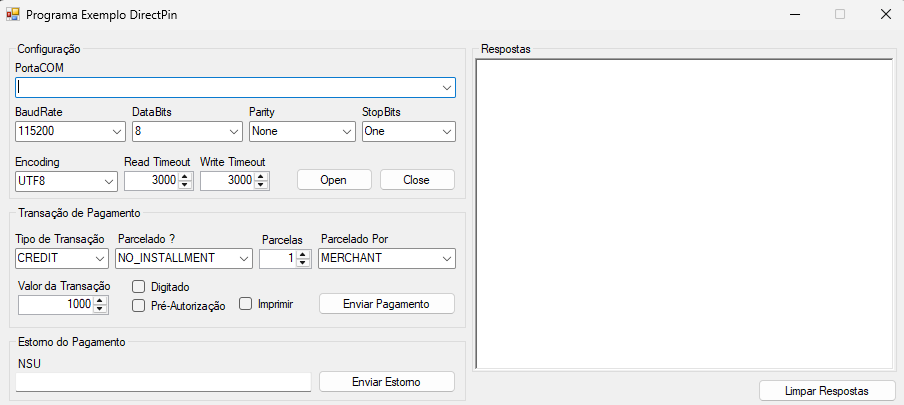
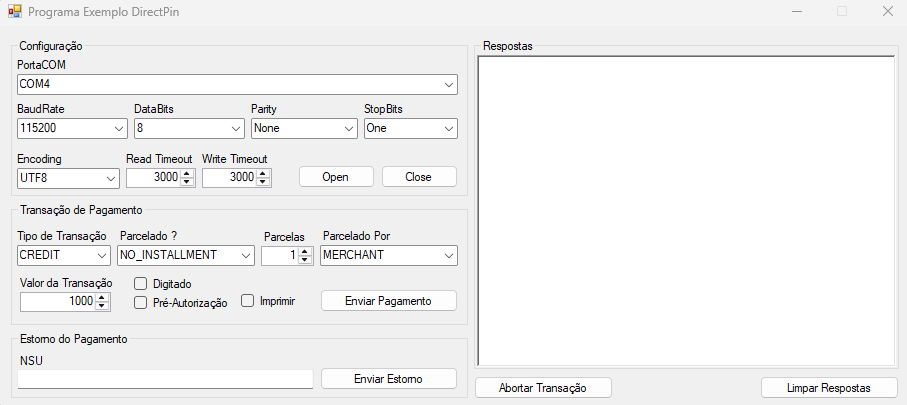
Adiciona suporte à operação de abortar transação no DirectPIN
Implementada a classe DpPayloadRequestAbort.cs para envio de requisição de abortar operação.
Atualizado o README.md com documentação da nova funcionalidade e exemplo de payload.
Atualizada a imagem programa-exemplo.png com nova versão otimizada.
Ajustes no FrmMain.cs e Designer.cs para suportar a nova operação.
Atualizado o arquivo .csproj para incluir a nova classe.

diff --git a/DemoDirectPin/FrmMain.Designer.cs b/DemoDirectPin/FrmMain.Designer.cs
@@ -69,6 +69,7 @@
             this.groupBox4 = new System.Windows.Forms.GroupBox();
             this.rtbRespostas = new System.Windows.Forms.RichTextBox();
             this.btnLimparRespostas = new System.Windows.Forms.Button();
+            this.btnAbort = new System.Windows.Forms.Button();
             this.groupBox1.SuspendLayout();
             ((System.ComponentModel.ISupportInitialize)(this.nudWriteTimeOut)).BeginInit();
             ((System.ComponentModel.ISupportInitialize)(this.nudReadTimeOut)).BeginInit();
@@ -537,11 +538,22 @@
             this.btnLimparRespostas.UseVisualStyleBackColor = true;
             this.btnLimparRespostas.Click += new System.EventHandler(this.btnLimparRespostas_Click);
             // 
+            // btnAbort
+            // 
+            this.btnAbort.Location = new System.Drawing.Point(475, 349);
+            this.btnAbort.Name = "btnAbort";
+            this.btnAbort.Size = new System.Drawing.Size(139, 23);
+            this.btnAbort.TabIndex = 33;
+            this.btnAbort.Text = "Abortar Transação";
+            this.btnAbort.UseVisualStyleBackColor = true;
+            this.btnAbort.Click += new System.EventHandler(this.btnAbort_Click);
+            // 
             // FrmMain
             // 
             this.AutoScaleDimensions = new System.Drawing.SizeF(6F, 13F);
             this.AutoScaleMode = System.Windows.Forms.AutoScaleMode.Font;
             this.ClientSize = new System.Drawing.Size(912, 381);
+            this.Controls.Add(this.btnAbort);
             this.Controls.Add(this.btnLimparRespostas);
             this.Controls.Add(this.groupBox4);
             this.Controls.Add(this.groupBox3);
@@ -610,6 +622,7 @@
         private System.Windows.Forms.NumericUpDown nudReadTimeOut;
         private System.Windows.Forms.Button btnClose;
         private System.Windows.Forms.NumericUpDown nudValorTransacao;
+        private System.Windows.Forms.Button btnAbort;
     }
 }
 

diff --git a/DemoDirectPin/FrmMain.cs b/DemoDirectPin/FrmMain.cs
@@ -331,6 +331,51 @@ namespace DemoDirectPin
             }
         }
 
+        private async void btnAbort_Click(object sender, EventArgs e)
+        {
+            Log("-- Abortar Transação --");
+
+            if (_serialPort == null || !_serialPort.IsOpen)
+            {
+                Log("Porta serial não está aberta.");
+                return;
+            }
+
+            try
+            {
+                var request = new DpPayloadRequestAbort();
+                {
+                    request.Type = "abort";
+                }
+
+                string payload = JsonSerializer.Serialize(request);
+                Log("- Payload JSON -");
+                Log(payload);
+
+                string base64 = Utils.ToBase64(payload);
+                ushort crc = Utils.StringCrcCCITT(base64);
+                byte crcHigh = (byte)((crc >> 8) & 0xFF);
+                byte crcLow = (byte)(crc & 0xFF);
+
+                byte SYN = 0x16;
+                byte ETB = 0x17;
+
+                List<byte> messageBytes = new List<byte>();
+                messageBytes.Add(SYN);
+                messageBytes.AddRange(Encoding.ASCII.GetBytes(base64));
+                messageBytes.Add(crcHigh);
+                messageBytes.Add(crcLow);
+                messageBytes.Add(ETB);
+
+                _serialPort.Write(messageBytes.ToArray(), 0, messageBytes.Count);
+            }
+            catch (Exception ex)
+            {
+                Log("Erro geral: " + ex.Message);
+            }
+
+        }
+
         private void btnLimparRespostas_Click(object sender, EventArgs e)
         {
             rtbRespostas.Clear();

diff --git a/DemoDirectPin/DirectPin/DpPayloadRequestAbort.cs b/DemoDirectPin/DirectPin/DpPayloadRequestAbort.cs
@@ -1,0 +1,25 @@
+using System.Text.Json.Serialization;
+
+namespace DirectPin
+{
+    public class DpPayloadRequestAbort
+    {
+        [JsonPropertyName("type")] public string Type { get; set; } = "abort";
+
+        public void Clear()
+        {
+            Type = "abort";
+        }
+
+        public string AsJson() => System.Text.Json.JsonSerializer.Serialize(this);
+
+        public void FromJson(string json)
+        {
+            var obj = System.Text.Json.JsonSerializer.Deserialize<DpPayloadRequestAbort>(json);
+            if (obj != null)
+            {
+                Type = obj.Type;
+            }
+        }
+    }
+}

diff --git a/DemoDirectPin/README.md b/DemoDirectPin/README.md
@@ -26,6 +26,10 @@ Demonstrar a integração direta entre uma aplicação e o **Pinpad Android (PAX
     <td><b>DpPayloadRequestReversal.cs</b></td>
     <td>Representa uma requisição de cancelamento de transação no DirectPIN. Usada para serializar e desserializar informações de estorno em JSON.</td>
   </tr>
+    <tr>
+    <td><b>DpPayloadRequestAbort.cs</b></td>
+    <td>Representa uma requisição de abortar uma transação no DirectPIN. Utiliza serialização JSON para envio da mensagem de abortar operação.</td>
+  </tr>
   <tr>
     <td><b>DpPayloadResponseTransaction.cs</b></td>
     <td>Representa a resposta de uma transação no DirectPIN. Usada para interpretar os dados retornados após uma operação de pagamento.</td>
@@ -100,7 +104,7 @@ Demonstrar a integração direta entre uma aplicação e o **Pinpad Android (PAX
   "amount": 1000,
   "nsu": "17557121803052335",
   "nsuAcquirer": "810488",
-  "panMasked": "524831******3676",
+  "panMasked": "524831******3590",
   "date": 1755700126088,
   "typeCard": "CONTACTLESS_EMV",
   "finalResult": "APPROVED",
@@ -115,7 +119,7 @@ Demonstrar a integração direta entre uma aplicação e o **Pinpad Android (PAX
   "nsu": "17557121803052335",
 }
 ```
-## Exemplo de resposta do Cancelamento
+## Exemplo de Resposta do Cancelamento
 ```json
 {
    "message":"Transação cancelada com sucesso",
@@ -124,4 +128,9 @@ Demonstrar a integração direta entre uma aplicação e o **Pinpad Android (PAX
    "type":"CANCELLATION"
 }
 ```
-
+## Exemplo de Payload Abortar Operação
+```json
+{
+  "type": "abort",
+}
+```
